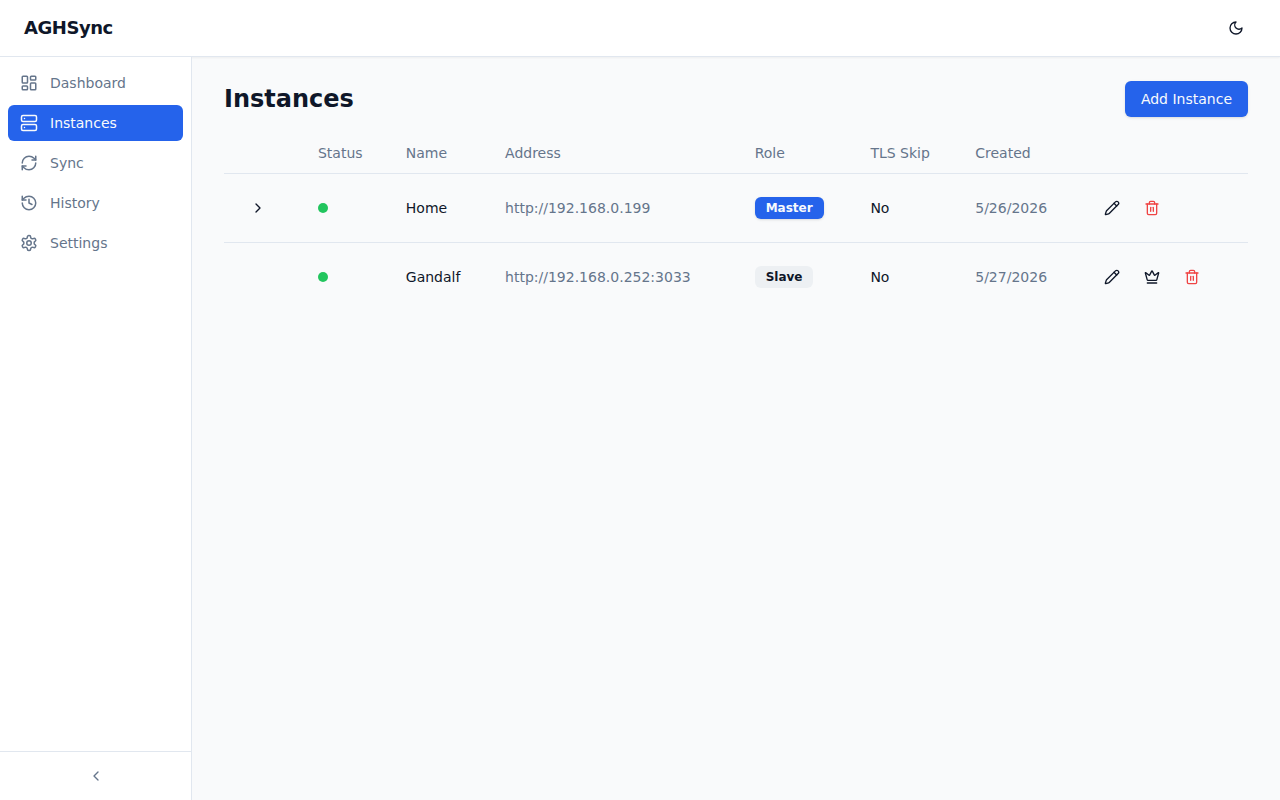
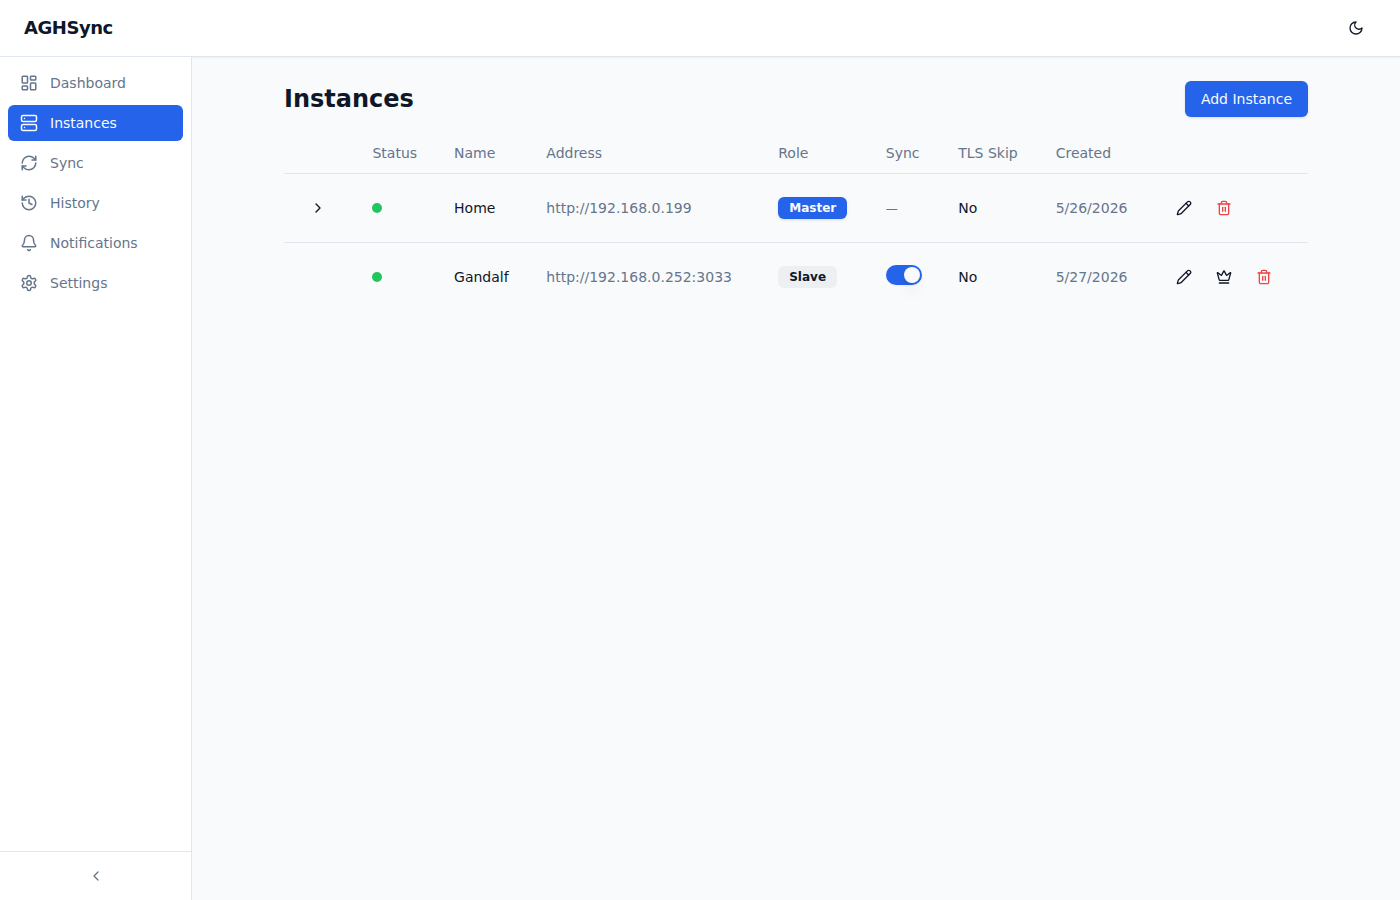
feat: add per-slave sync on/off toggle
Adds a sync_enabled flag to slave instances so individual nodes can be
paused without deleting them — useful during maintenance.

Backend:
- Migration 006 adds sync_enabled INTEGER NOT NULL DEFAULT 1 to instances
- Instance model, repository (List/Get/Create/scanInstance) updated to
  carry the new field; new SetSyncEnabled(ctx, id, bool) method
- Sync engine skips children where sync_enabled is false
- PUT /api/v1/instances/{id}/sync-enabled handler + route
- Backup export/restore includes sync_enabled per instance

Frontend:
- Instance type gains sync_enabled field
- setSyncEnabled mutation in useInstances hook
- Instances table gains a Sync column: Switch for slaves, — for master
- Updated instances screenshot

Security assessment:
- No new sensitive data; toggle stored as a plain integer flag
- No new authentication paths; endpoint is behind existing API auth middleware
- No dependency changes

diff --git a/web/src/pages/Instances.tsx b/web/src/pages/Instances.tsx
@@ -1,6 +1,7 @@
 import React, { useEffect, useRef, useState } from 'react'
 import { useQueryClient } from '@tanstack/react-query'
 import { CheckCircle2, ChevronDown, ChevronRight, Crown, Loader2, Pencil, Trash2, XCircle } from 'lucide-react'
+import { Switch } from '@/components/ui/switch'
 import { Button } from '@/components/ui/button'
 import { Input } from '@/components/ui/input'
 import { Label } from '@/components/ui/label'
@@ -55,6 +56,7 @@ export function Instances() {
     updateInstance,
     deleteInstance,
     promoteInstance,
+    setSyncEnabled,
     getSyncConfig,
     updateSyncConfig,
   } = useInstances(credentials)
@@ -190,6 +192,7 @@ export function Instances() {
             <TableHead>Name</TableHead>
             <TableHead>Address</TableHead>
             <TableHead>Role</TableHead>
+            <TableHead>Sync</TableHead>
             <TableHead>TLS Skip</TableHead>
             <TableHead>Created</TableHead>
             <TableHead />
@@ -233,6 +236,19 @@ export function Instances() {
                     <Badge variant="secondary">Slave</Badge>
                   )}
                 </TableCell>
+                <TableCell>
+                  {inst.is_master ? (
+                    <span className="text-muted-foreground text-xs">—</span>
+                  ) : (
+                    <Switch
+                      checked={inst.sync_enabled}
+                      onCheckedChange={(enabled) =>
+                        setSyncEnabled.mutate({ id: inst.id, enabled })
+                      }
+                      aria-label={inst.sync_enabled ? 'Disable sync' : 'Enable sync'}
+                    />
+                  )}
+                </TableCell>
                 <TableCell>{inst.tls_skip_verify ? 'Yes' : 'No'}</TableCell>
                 <TableCell className="text-muted-foreground">
                   {new Date(inst.created_at).toLocaleDateString()}
@@ -271,7 +287,7 @@ export function Instances() {
 
               {inst.is_master && expandedId === inst.id && (
                 <TableRow key={`${inst.id}-config`}>
-                  <TableCell colSpan={8} className="bg-muted/30 px-8 py-4">
+                  <TableCell colSpan={9} className="bg-muted/30 px-8 py-4">
                     <p className="text-sm font-medium mb-3">Sync Config</p>
                     <div className="grid grid-cols-3 gap-2">
                       {(

diff --git a/web/src/hooks/useInstances.ts b/web/src/hooks/useInstances.ts
@@ -63,6 +63,16 @@ export function useInstances(credentials: AnyCredentials | null) {
     onSuccess: invalidateAll,
   })
 
+  const setSyncEnabled = useMutation({
+    mutationFn: ({ id, enabled }: { id: string; enabled: boolean }) =>
+      apiFetch<Instance>(`/api/v1/instances/${id}/sync-enabled`, {
+        credentials,
+        method: 'PUT',
+        body: JSON.stringify({ enabled }),
+      }),
+    onSuccess: invalidateAll,
+  })
+
   const getSyncConfig = (id: string) =>
     apiFetch<SyncConfigEntry[]>(`/api/v1/instances/${id}/sync-config`, { credentials })
 
@@ -81,6 +91,7 @@ export function useInstances(credentials: AnyCredentials | null) {
     updateInstance,
     deleteInstance,
     promoteInstance,
+    setSyncEnabled,
     getSyncConfig,
     updateSyncConfig,
   }

diff --git a/web/src/lib/api.ts b/web/src/lib/api.ts
@@ -95,6 +95,7 @@ export interface Instance {
   username: string
   is_master: boolean
   tls_skip_verify: boolean
+  sync_enabled: boolean
   created_at: string
   updated_at: string
 }

diff --git a/internal/backup/backup.go b/internal/backup/backup.go
@@ -51,16 +51,17 @@ type BackupConfig struct {
 
 // BackupInstance holds one instance plus its sync config.
 type BackupInstance struct {
-	ID            string              `json:"id"`
-	Name          string              `json:"name"`
-	Address       string              `json:"address"`
-	Username      string              `json:"username"`
-	PasswordEnc   string              `json:"password_enc"`
-	IsMaster      bool                `json:"is_master"`
-	TLSSkipVerify bool                `json:"tls_skip_verify"`
-	CreatedAt     string              `json:"created_at"`
-	UpdatedAt     string              `json:"updated_at"`
-	SyncConfig    []BackupSyncConfig  `json:"sync_config"`
+	ID            string             `json:"id"`
+	Name          string             `json:"name"`
+	Address       string             `json:"address"`
+	Username      string             `json:"username"`
+	PasswordEnc   string             `json:"password_enc"`
+	IsMaster      bool               `json:"is_master"`
+	TLSSkipVerify bool               `json:"tls_skip_verify"`
+	SyncEnabled   bool               `json:"sync_enabled"`
+	CreatedAt     string             `json:"created_at"`
+	UpdatedAt     string             `json:"updated_at"`
+	SyncConfig    []BackupSyncConfig `json:"sync_config"`
 }
 
 // BackupSyncConfig is one sync-config row.
@@ -103,23 +104,24 @@ func Export(ctx context.Context, db *sql.DB, cfg *config.Config) (*BackupData, e
 
 	// --- instances (load all before opening sync_config queries to avoid SQLite deadlock) ---
 	rows, err := db.QueryContext(ctx,
-		`SELECT id, name, address, username, password_enc, is_master, tls_skip_verify, created_at, updated_at
+		`SELECT id, name, address, username, password_enc, is_master, tls_skip_verify, sync_enabled, created_at, updated_at
 		 FROM instances ORDER BY created_at ASC`)
 	if err != nil {
 		return nil, fmt.Errorf("query instances: %w", err)
 	}
 	for rows.Next() {
 		var inst BackupInstance
-		var isMaster, tlsSkip int
+		var isMaster, tlsSkip, syncEnabled int
 		if err := rows.Scan(
 			&inst.ID, &inst.Name, &inst.Address, &inst.Username, &inst.PasswordEnc,
-			&isMaster, &tlsSkip, &inst.CreatedAt, &inst.UpdatedAt,
+			&isMaster, &tlsSkip, &syncEnabled, &inst.CreatedAt, &inst.UpdatedAt,
 		); err != nil {
 			rows.Close()
 			return nil, fmt.Errorf("scan instance: %w", err)
 		}
 		inst.IsMaster = isMaster == 1
 		inst.TLSSkipVerify = tlsSkip == 1
+		inst.SyncEnabled = syncEnabled == 1
 		data.Instances = append(data.Instances, inst)
 	}
 	rows.Close()
@@ -209,10 +211,10 @@ func Restore(ctx context.Context, db *sql.DB, cfg *config.Config, data *BackupDa
 	// Restore instances and their sync configs.
 	for _, inst := range data.Instances {
 		if _, err = tx.ExecContext(ctx,
-			`INSERT INTO instances(id, name, address, username, password_enc, is_master, tls_skip_verify, created_at, updated_at)
-			 VALUES(?,?,?,?,?,?,?,?,?)`,
+			`INSERT INTO instances(id, name, address, username, password_enc, is_master, tls_skip_verify, sync_enabled, created_at, updated_at)
+			 VALUES(?,?,?,?,?,?,?,?,?,?)`,
 			inst.ID, inst.Name, inst.Address, inst.Username, inst.PasswordEnc,
-			btoi(inst.IsMaster), btoi(inst.TLSSkipVerify), inst.CreatedAt, inst.UpdatedAt,
+			btoi(inst.IsMaster), btoi(inst.TLSSkipVerify), btoi(inst.SyncEnabled), inst.CreatedAt, inst.UpdatedAt,
 		); err != nil {
 			return fmt.Errorf("restore instance %q: %w", inst.Name, err)
 		}

diff --git a/internal/instance/repository.go b/internal/instance/repository.go
@@ -62,9 +62,9 @@ func (r *Repository) Create(ctx context.Context, name, address, username, passwo
 	}
 
 	if _, err = tx.ExecContext(ctx,
-		`INSERT INTO instances(id, name, address, username, password_enc, is_master, tls_skip_verify, created_at, updated_at)
-		 VALUES(?,?,?,?,?,?,?,?,?)`,
-		id, name, address, username, enc, btoi(isMaster), btoi(tlsSkipVerify), nowFmt, nowFmt,
+		`INSERT INTO instances(id, name, address, username, password_enc, is_master, tls_skip_verify, sync_enabled, created_at, updated_at)
+		 VALUES(?,?,?,?,?,?,?,?,?,?)`,
+		id, name, address, username, enc, btoi(isMaster), btoi(tlsSkipVerify), 1, nowFmt, nowFmt,
 	); err != nil {
 		if isUniqueAddressViolation(err) {
 			return nil, ErrDuplicateAddress
@@ -89,7 +89,7 @@ func (r *Repository) Create(ctx context.Context, name, address, username, passwo
 
 	return &Instance{
 		ID: id, Name: name, Address: address, Username: username,
-		IsMaster: isMaster, TLSSkipVerify: tlsSkipVerify,
+		IsMaster: isMaster, TLSSkipVerify: tlsSkipVerify, SyncEnabled: true,
 		CreatedAt: now, UpdatedAt: now,
 	}, nil
 }
@@ -97,7 +97,7 @@ func (r *Repository) Create(ctx context.Context, name, address, username, passwo
 // Get returns a single instance by ID.
 func (r *Repository) Get(ctx context.Context, id string) (*Instance, error) {
 	row := r.db.QueryRowContext(ctx,
-		`SELECT id, name, address, username, is_master, tls_skip_verify, created_at, updated_at
+		`SELECT id, name, address, username, is_master, tls_skip_verify, sync_enabled, created_at, updated_at
 		 FROM instances WHERE id=?`, id)
 	inst, err := scanInstance(row)
 	if errors.Is(err, sql.ErrNoRows) {
@@ -109,7 +109,7 @@ func (r *Repository) Get(ctx context.Context, id string) (*Instance, error) {
 // List returns all instances ordered by created_at ascending.
 func (r *Repository) List(ctx context.Context) ([]*Instance, error) {
 	rows, err := r.db.QueryContext(ctx,
-		`SELECT id, name, address, username, is_master, tls_skip_verify, created_at, updated_at
+		`SELECT id, name, address, username, is_master, tls_skip_verify, sync_enabled, created_at, updated_at
 		 FROM instances ORDER BY created_at ASC`)
 	if err != nil {
 		return nil, err
@@ -300,6 +300,22 @@ func (r *Repository) GetSyncConfig(ctx context.Context, id string) ([]SyncConfig
 	return entries, rows.Err()
 }
 
+// SetSyncEnabled enables or disables sync for a slave instance.
+func (r *Repository) SetSyncEnabled(ctx context.Context, id string, enabled bool) (*Instance, error) {
+	now := time.Now().UTC().Format(timeFmt)
+	res, err := r.db.ExecContext(ctx,
+		`UPDATE instances SET sync_enabled=?, updated_at=? WHERE id=?`,
+		btoi(enabled), now, id)
+	if err != nil {
+		return nil, err
+	}
+	n, _ := res.RowsAffected()
+	if n == 0 {
+		return nil, ErrNotFound
+	}
+	return r.Get(ctx, id)
+}
+
 // SetSyncConfig upserts the given config entries for an instance.
 func (r *Repository) SetSyncConfig(ctx context.Context, id string, entries []SyncConfigEntry) error {
 	if _, err := r.Get(ctx, id); err != nil {
@@ -329,16 +345,17 @@ type scanner interface{ Scan(dest ...any) error }
 
 func scanInstance(s scanner) (*Instance, error) {
 	var inst Instance
-	var isMaster, tlsSkipVerify int
+	var isMaster, tlsSkipVerify, syncEnabled int
 	var createdAt, updatedAt string
 	if err := s.Scan(
 		&inst.ID, &inst.Name, &inst.Address, &inst.Username,
-		&isMaster, &tlsSkipVerify, &createdAt, &updatedAt,
+		&isMaster, &tlsSkipVerify, &syncEnabled, &createdAt, &updatedAt,
 	); err != nil {
 		return nil, err
 	}
 	inst.IsMaster = isMaster == 1
 	inst.TLSSkipVerify = tlsSkipVerify == 1
+	inst.SyncEnabled = syncEnabled == 1
 	inst.CreatedAt, _ = time.Parse(timeFmt, createdAt)
 	inst.UpdatedAt, _ = time.Parse(timeFmt, updatedAt)
 	return &inst, nil

diff --git a/internal/api/handlers/instances.go b/internal/api/handlers/instances.go
@@ -300,6 +300,30 @@ func GetInstancesStatuses(repo *instance.Repository) http.HandlerFunc {
 	}
 }
 
+// SetInstanceSyncEnabled enables or disables sync for a slave instance.
+func SetInstanceSyncEnabled(repo *instance.Repository) http.HandlerFunc {
+	return func(w http.ResponseWriter, r *http.Request) {
+		id := chi.URLParam(r, "id")
+		var body struct {
+			Enabled bool `json:"enabled"`
+		}
+		if err := DecodeJSON(r, &body); err != nil {
+			WriteError(w, http.StatusBadRequest, "invalid request body")
+			return
+		}
+		inst, err := repo.SetSyncEnabled(r.Context(), id, body.Enabled)
+		if errors.Is(err, instance.ErrNotFound) {
+			WriteError(w, http.StatusNotFound, "instance not found")
+			return
+		}
+		if err != nil {
+			WriteError(w, http.StatusInternalServerError, "failed to update instance")
+			return
+		}
+		WriteJSON(w, http.StatusOK, inst)
+	}
+}
+
 // TestConnectionHandler tests connectivity to an AdGuardHome instance without saving it.
 func TestConnectionHandler(w http.ResponseWriter, r *http.Request) {
 	var req testConnectionRequest

diff --git a/internal/sync/engine.go b/internal/sync/engine.go
@@ -78,7 +78,7 @@ func (e *Engine) doSync(ctx context.Context, runID string) (string, error) {
 	for _, inst := range instances {
 		if inst.IsMaster {
 			master = inst
-		} else {
+		} else if inst.SyncEnabled {
 			children = append(children, inst)
 		}
 	}

diff --git a/internal/api/router.go b/internal/api/router.go
@@ -67,6 +67,7 @@ func NewRouter(deps Deps) http.Handler {
 		r.Get("/instances/{id}/stats", handlers.GetInstanceStats(deps.Instances))
 		r.Get("/instances/{id}/sync-config", handlers.GetSyncConfig(deps.Instances))
 		r.Put("/instances/{id}/sync-config", handlers.UpdateSyncConfig(deps.Instances))
+		r.Put("/instances/{id}/sync-enabled", handlers.SetInstanceSyncEnabled(deps.Instances))
 
 		// Settings
 		r.Get("/settings", handlers.GetSettings(deps.Config))

diff --git a/internal/instance/model.go b/internal/instance/model.go
@@ -10,6 +10,7 @@ type Instance struct {
 	Username      string    `json:"username"`
 	IsMaster      bool      `json:"is_master"`
 	TLSSkipVerify bool      `json:"tls_skip_verify"`
+	SyncEnabled   bool      `json:"sync_enabled"`
 	CreatedAt     time.Time `json:"created_at"`
 	UpdatedAt     time.Time `json:"updated_at"`
 }